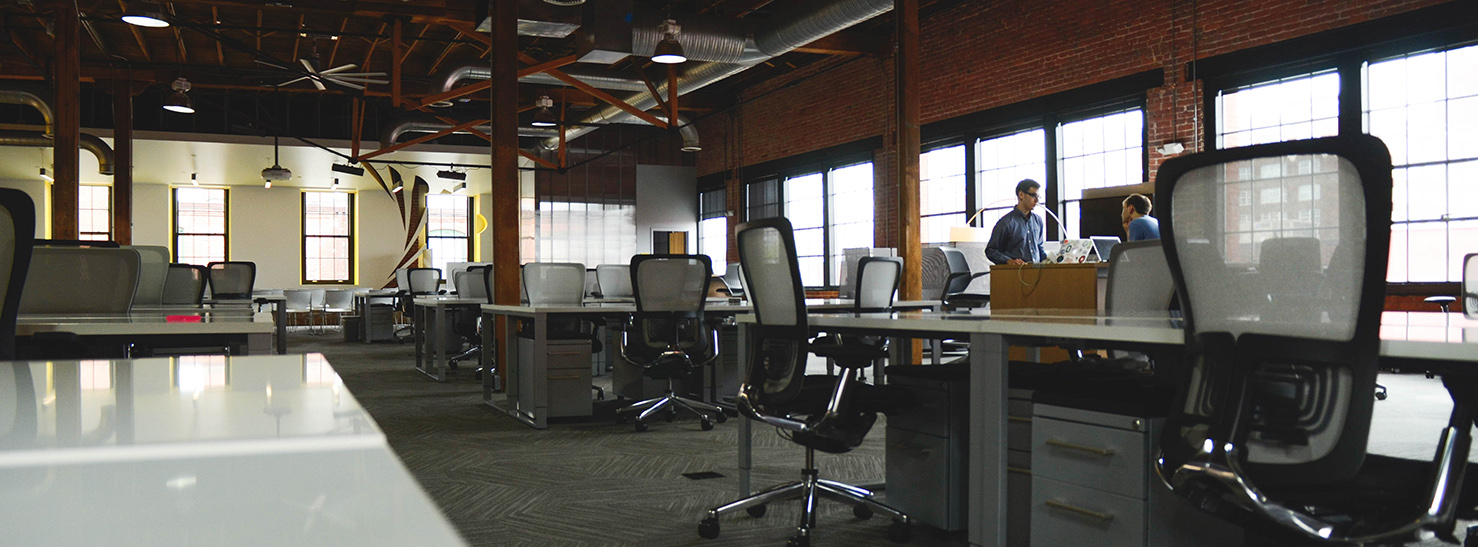
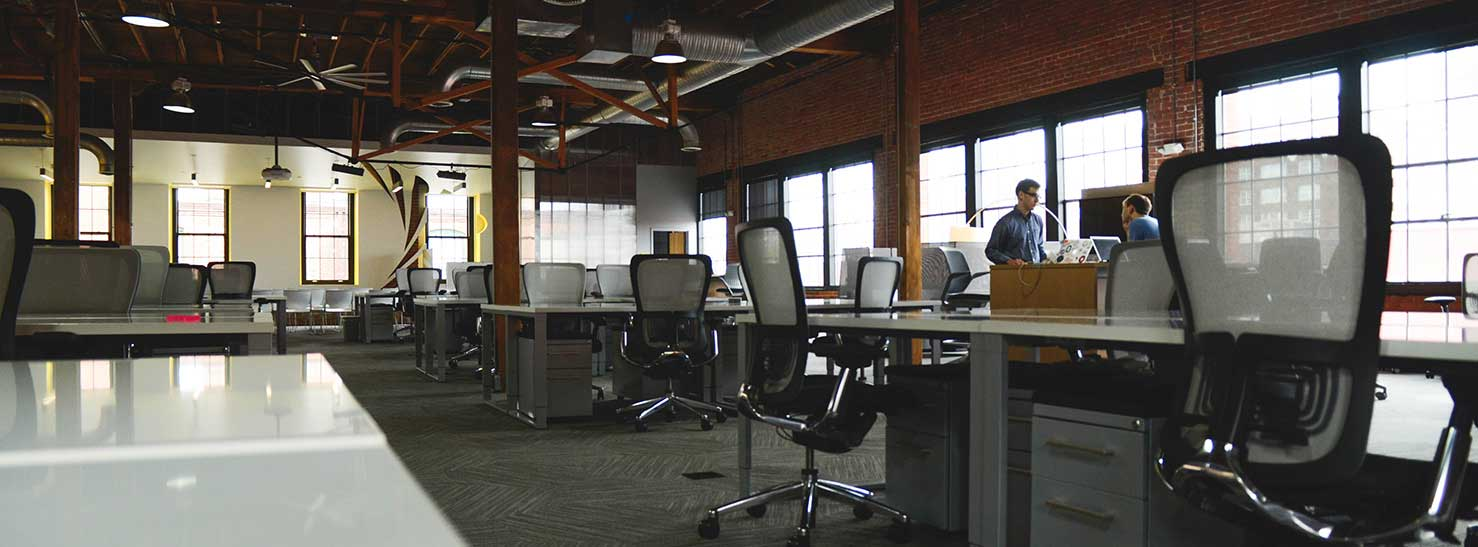
image size reduced

diff --git a/css/main.css b/css/main.css
@@ -570,6 +570,7 @@ label#navButton:hover{
 	position: relative;
 	background: #444;
 	margin-bottom: 2px;
+	overflow-x: hidden;
 }
 
 .navLogo:hover {
@@ -599,6 +600,7 @@ label#navButton:hover{
 /*menu styling*/
 
 .navList{
+	width: 100%;
       margin-top: 0px;
       padding: 0px;
 }
@@ -610,8 +612,6 @@ label#navButton:hover{
 .navList:last-child{
       margin-bottom: 200px;
 }
-
-
 
 /*#nav ul ul li {
 	list-style: disc;
@@ -704,6 +704,8 @@ Hero Image Section - All pages
 .homePage .heroImage {
       display: block;
       position: relative;
+	background:url("../images/In-And-Out.jpg") top right no-repeat;
+      background-size: cover;
       width:100%;
       height:100vh;
       width:100%;
@@ -723,11 +725,15 @@ Hero Image Section - All pages
 
 .videoOverlay {
       position: absolute;
-      background: rgba(0,0,0,0.1);
+      background: rgba(0,0,0,0.1) url("../images/In-And-Out.jpg") top right no-repeat;
       top:0;
       bottom:0;
       left:0;
       right:0;
+}
+
+video {
+
 }
 
 
@@ -999,7 +1005,7 @@ what we offer Section - For home page only
 }
 
 .feature2 .img {
-      background: linear-gradient(  rgba(129,212,250, 0.85), rgba(129,212,250, 0.85) ),url("../images/feature2.1.jpg") center top no-repeat;
+      background: linear-gradient(  rgba(129,212,250, 0.85), rgba(129,212,250, 0.85) ),url("../images/feature2.jpg") center top no-repeat;
       background-size: cover;
 }
 
@@ -1009,22 +1015,22 @@ what we offer Section - For home page only
 }
 
 .feature4 .img {
-      background: linear-gradient( rgba(149,117,205,0.75), rgba(149,117,205,0.75) ),url("../images/feature4.1.jpg") center top no-repeat;
+      background: linear-gradient( rgba(149,117,205,0.75), rgba(149,117,205,0.75) ),url("../images/feature4.jpg") center top no-repeat;
       background-size: cover;
 }
 
 .feature5 .img {
-      background: linear-gradient( rgba(0,191,165,0.75), rgba(0,191,165,0.75) ),url("../images/feature5.1.jpg") center top no-repeat;
+      background: linear-gradient( rgba(0,191,165,0.75), rgba(0,191,165,0.75) ),url("../images/feature5.jpg") center top no-repeat;
       background-size: cover;
 }
 
 .feature6 .img {
-      background: linear-gradient( rgba(255,214,0,0.75), rgba(255,214,0,0.75) ),url("../images/feature6.1.jpeg") center top no-repeat;
+      background: linear-gradient( rgba(255,214,0,0.75), rgba(255,214,0,0.75) ),url("../images/feature6.jpg") center top no-repeat;
       background-size: cover;
 }
 
 .feature7 .img {
-      background: linear-gradient( rgba(2,136,209,0.75), rgba(2,136,209,0.75) ),url("../images/feature7.jpeg") center top no-repeat;
+      background: linear-gradient( rgba(2,136,209,0.75), rgba(2,136,209,0.75) ),url("../images/feature7.jpg") center top no-repeat;
       background-size: cover;
 }
 
@@ -1801,7 +1807,7 @@ Hero Image Section - except home page, all [ages]
 }
 
 .csr .heroImage {
-	background:url("../images/csrbg3.jpg") center -30px no-repeat;
+	background:linear-gradient(to bottom, rgba(0,0,0,0) 70%, rgba(0,0,0,0.3) 90%), url("../images/csrbg3.jpg") center -30px no-repeat;
       background-size: cover;
 }
 
@@ -1841,7 +1847,7 @@ Hero Image Section - except home page, all [ages]
 }
 
 .career .heroImage {
-	background:url("../images/careerbg.jpeg") center -60px no-repeat;
+	background:url("../images/careerbg.jpg") center -60px no-repeat;
       background-size: cover;
 }
 

diff --git a/js/functions.js b/js/functions.js
@@ -9,6 +9,24 @@
 $(function() {
 
 
+//show video
+
+
+
+setTimeout(
+  function()
+  {
+    $(".videoOverlay").animate({
+          "opacity": "0"
+   });
+  }, 500);
+
+
+
+
+
+//Flexslider scripts
+
       (function() {
 
          // store the slider in a local variable
